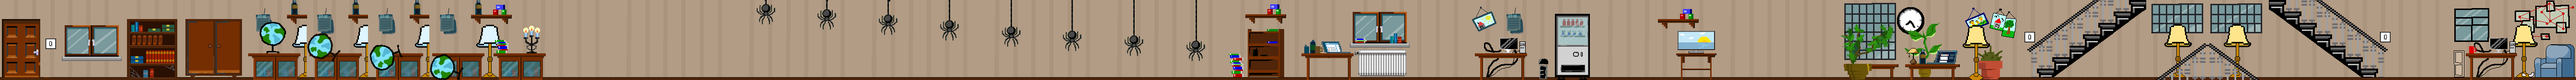
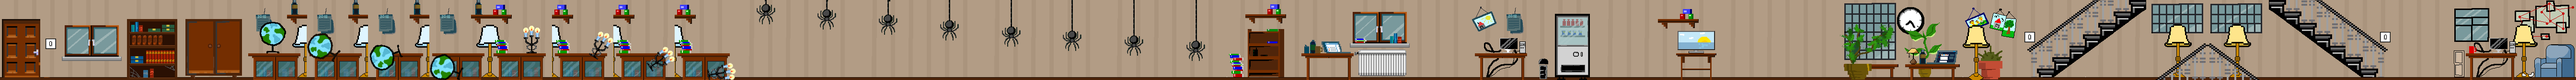
Animate candles

Changed region(s): [[0.1875, 0.3869, 0.3125, 1.0], [0.1875, 0.0595, 0.2812, 0.2679]]

diff --git a/Sources/Tileset.h b/Sources/Tileset.h
@@ -10,6 +10,7 @@ namespace {
 	
 	const int lightCount = 8;
 	const int spiderCountMax = 1;
+	const int dropCountMax = 2;
 	const int tileWidth = 128;
 	const int tileHeight = 168;
 	const int spiderCooldownMax = 30;
@@ -20,9 +21,10 @@ namespace {
 	int spiderCooldownCurr[spiderCountMax];
 	int spiderCountCurr;
 	
-	int globusFrameCount = 0;
-	vec2i globusPos;
-	int globusState;
+	int objectFrameCount = 0;
+	vec2i objectPositions[dropCountMax];
+	int objectState[dropCountMax];
+	int objectCountCurr;
 	
 	const int rows = 2;
 	const int columns = 8;
@@ -46,6 +48,6 @@ vec2 findDoor(float lastX, float lastY);
 
 void resetSpiders();
 bool animateSpider(float px, float py);
-void animateGlobus(float px, float py);
-	
-enum TileID {Door = 0, Window1 = 1, Books1 = 2, Closet = 3, TableGlobus1 = 4, TableGlobus2 = 5, TableGlobus3 = 6, TableGlobus4 = 7, TableAndCandles = 8, Wall1 = 9, Wall2 = 10, Wall3 = 11, Spider1 = 12, Spider2 = 13, Spider3 = 14, Spider4 = 15, Spider5 = 16, Spider6 = 17, Spider7 = 18, Spider8 = 19, Books2 = 20, Laptop1 = 21, Window = 22, Wall4 = 23, PC = 24, Fridge = 25, Emtpy = 26, TV = 27, Wall5 = 28, Wall6 = 29, Plant = 30, Laptop2 = 31, Cactus = 32, Stairs1 = 33, Stairs2 = 34, Stairs3 = 35, Stairs4 = 36, Stairs5 = 37, Stairs6 = 38, Wall7 = 39, PC2 = 40, Sofa = 41};
+void drop(float px, float py);
+
+enum TileID {Door = 0, Window1 = 1, Books1 = 2, Closet = 3, TableGlobus1 = 4, TableGlobus2 = 5, TableGlobus3 = 6, TableGlobus4 = 7, TableAndCandles1 = 8, TableAndCandles2 = 9, TableAndCandles3 = 10, TableAndCandles4 = 11, Spider1 = 12, Spider2 = 13, Spider3 = 14, Spider4 = 15, Spider5 = 16, Spider6 = 17, Spider7 = 18, Spider8 = 19, Books2 = 20, Laptop1 = 21, Window = 22, Wall4 = 23, PC = 24, Fridge = 25, Emtpy = 26, TV = 27, Wall5 = 28, Wall6 = 29, Plant = 30, Laptop2 = 31, Cactus = 32, Stairs1 = 33, Stairs2 = 34, Stairs3 = 35, Stairs4 = 36, Stairs5 = 37, Stairs6 = 38, Wall7 = 39, PC2 = 40, Sofa = 41};

diff --git a/Sources/Tileset.cpp b/Sources/Tileset.cpp
@@ -46,6 +46,7 @@ void loadCsv(const char* csvFile) {
 
 	doorCount = 0;
 	spiderCountCurr = 0;
+	objectCountCurr = 0;
 	doors = new vec2[(rows - 1) * 2];
 	for (int y = 0; y < rows; ++y) {
 		for (int x = 0; x < columns; ++x) {
@@ -61,9 +62,11 @@ void loadCsv(const char* csvFile) {
 				spiderCooldownCurr[spiderCountCurr] = 0;
 				++spiderCountCurr;
 			}
-			else if (index == TableGlobus1) {
-				globusPos = vec2i(x, y);
-				globusState = TableGlobus1;
+			else if (index == TableGlobus1 || index == TableAndCandles1) {
+				assert(objectCountCurr < dropCountMax);
+				objectPositions[objectCountCurr] = vec2i(x, y);
+				objectState[objectCountCurr] = index;
+				++objectCountCurr;
 			}
 		}
 	}
@@ -121,26 +124,28 @@ bool animateSpider(float px, float py) {
 	return caughtPlayer;
 }
 
-void animateGlobus(float px, float py) {
-	++globusFrameCount;
+void drop(float px, float py) {
+	
+	++objectFrameCount;
 	
 	bool doMove = false;
-	if (globusFrameCount >= 5) {
+	if (objectFrameCount >= 5) {
 		doMove = true;
-		globusFrameCount = 0;
+		objectFrameCount = 0;
 	}
 	
-	int collx = (globusPos.x() + .5f) * tileWidth;
-	bool inRange = abs(collx - px) <= tileWidth / 4;
-	
-	if (doMove) {
-		if (inRange && globusState < TableGlobus4)
-			++globusState;
-		source[globusPos.y() * columns  + globusPos.x()] = globusState;
+	for (int i = 0; i < objectCountCurr; ++i) {
+		if (doMove) {
+			int collx = (objectPositions[i].x() + .5f) * tileWidth;
+			bool inRange = abs(collx - px) <= tileWidth / 4;
+			if (inRange &&
+				((objectState[i] >= TableGlobus1 && objectState[i] < TableGlobus4) ||
+				(objectState[i] >= TableAndCandles1 && objectState[i] < TableAndCandles4)))
+				++objectState[i];
+			source[objectPositions[i].y() * columns  + objectPositions[i].x()] = objectState[i];
+		}
 	}
-	
 }
-
 
 int getFloor(float py) {
 	return ((int)py) / tileHeight;

diff --git a/Sources/Main.cpp b/Sources/Main.cpp
@@ -99,7 +99,7 @@ namespace {
 			tileID = getTileID(playerCenter.x() + tileWidth, playerCenter.y());
 		if (cat->status == Animation::Status::WalkingLeft)
 			tileID = getTileID(playerCenter.x() - tileWidth, playerCenter.y());
-		if (tileID == TableGlobus1 || tileID == TableAndCandles) {
+		if (tileID == TableGlobus1 || tileID == TableAndCandles1) {
 			helpText = jumpText;
 		}
 		
@@ -224,7 +224,7 @@ namespace {
 			//guy->render(g2);
 			
 			animateSpider(playerCenter.x(), playerCenter.y());
-			animateGlobus(playerCenter.x(), playerCenter.y());
+			drop(playerCenter.x(), playerCenter.y());
 			
 			drawGUI();
 		} else if (state == GameOverState) {
